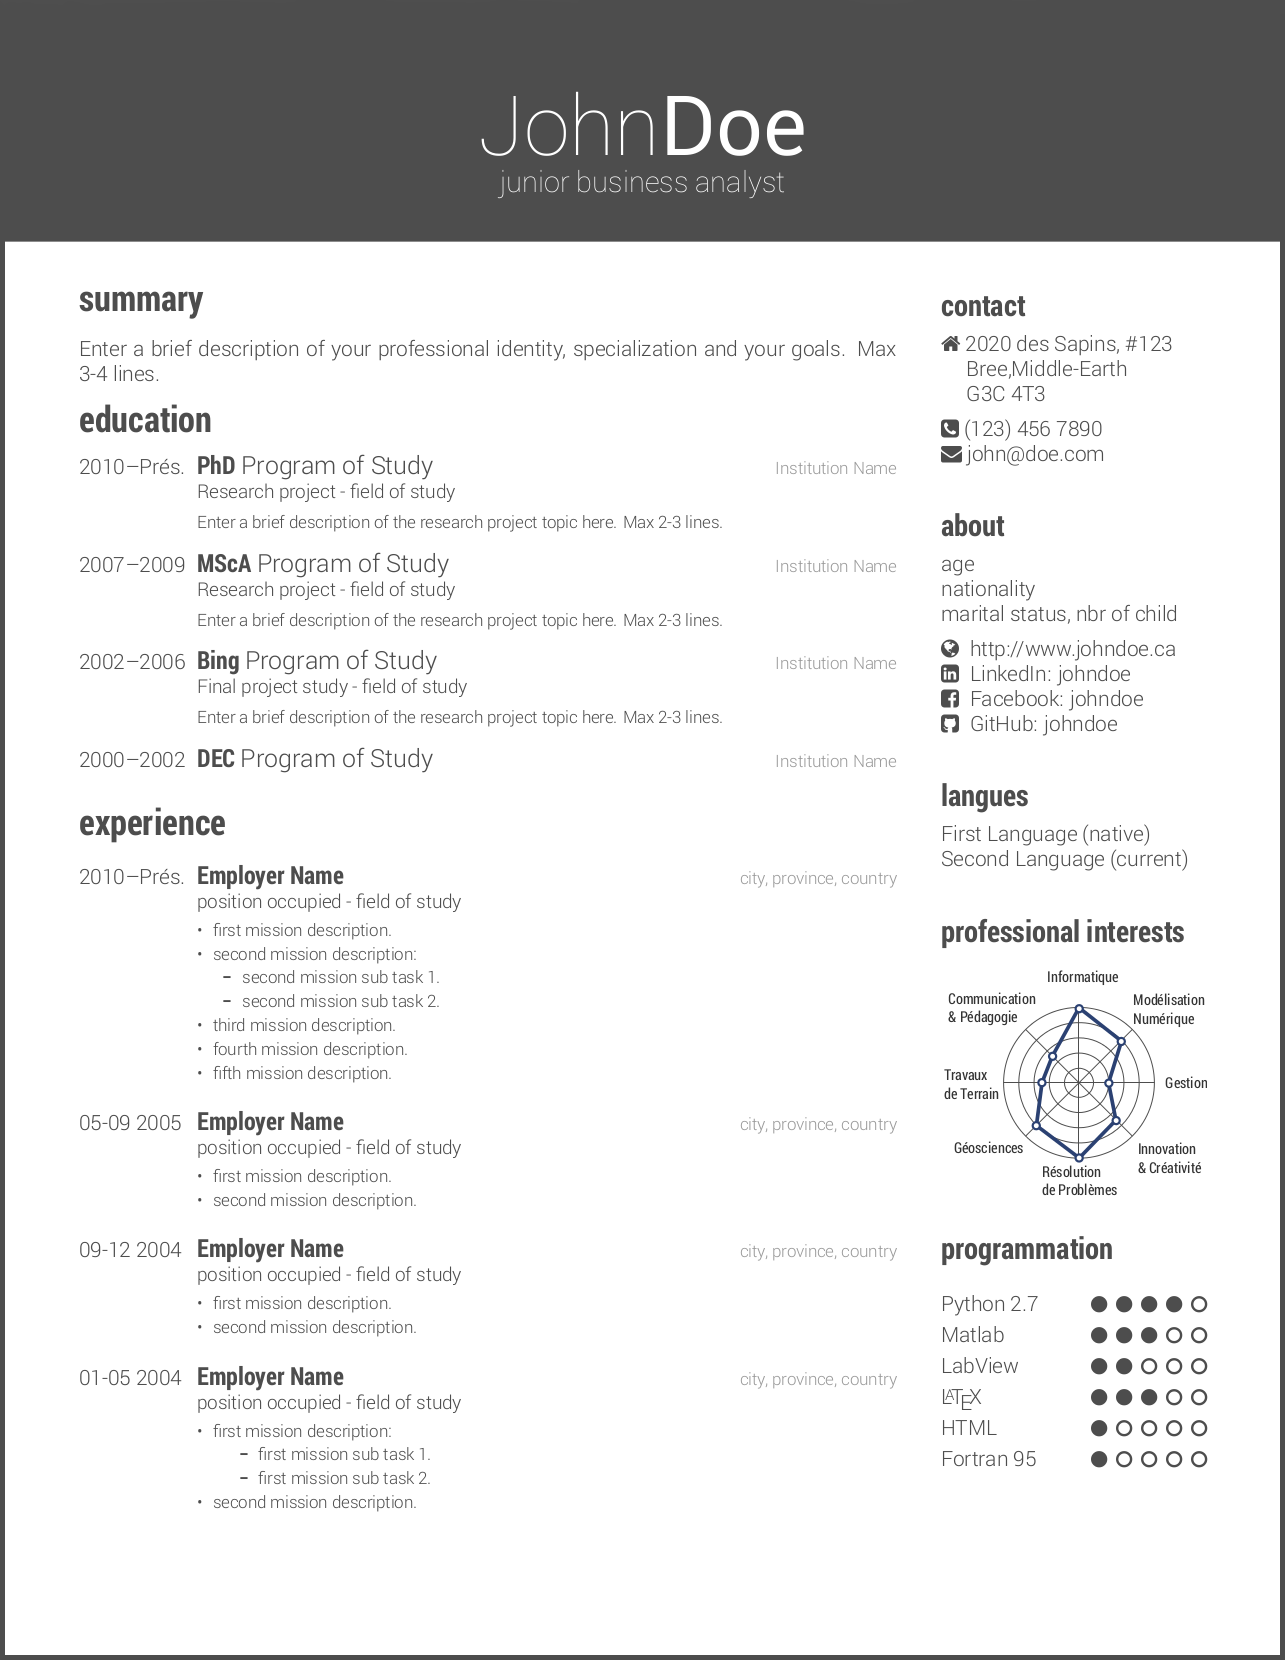
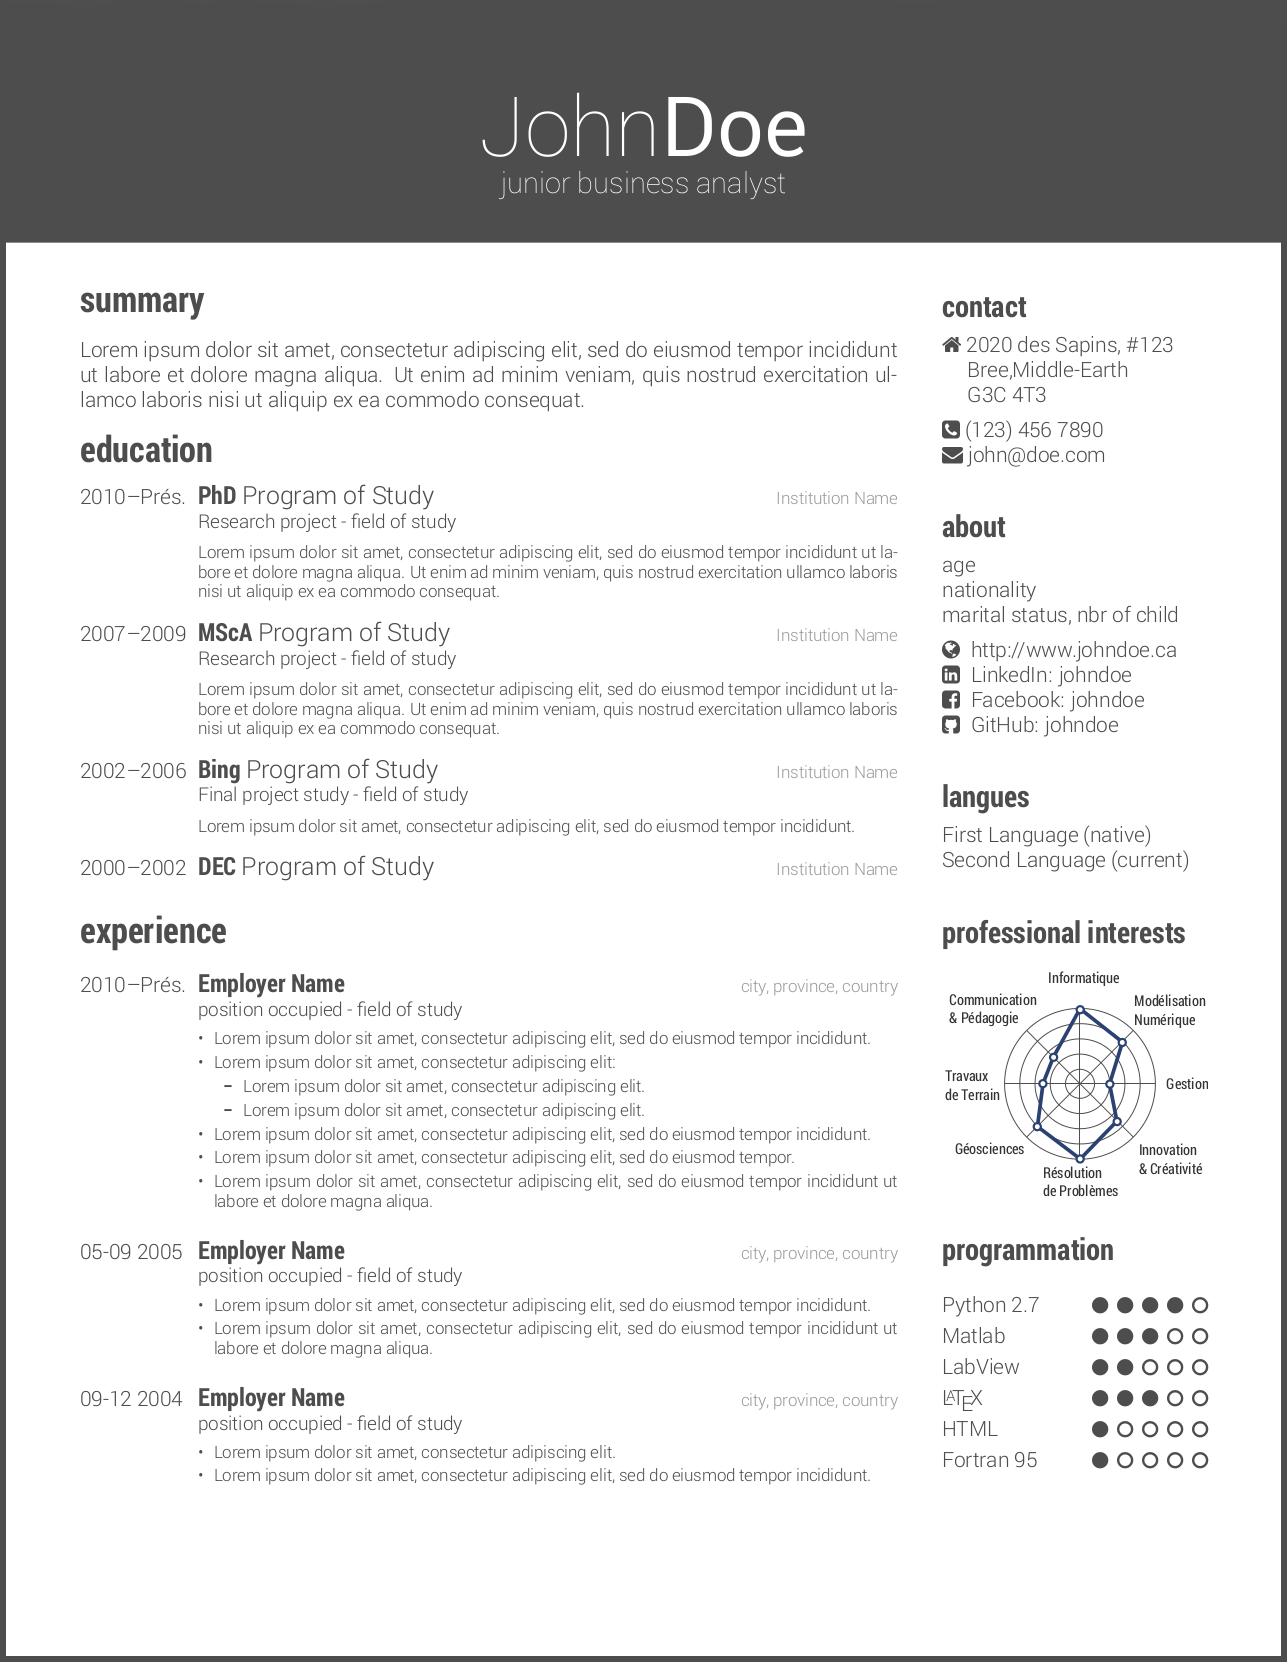
Modification to the filler text to better show the design of the document.

diff --git a/cv.tex b/cv.tex
@@ -89,7 +89,7 @@
 
 \section{summary}
 %
-\normalfont{Enter a brief description of your professional identity, specialization and your goals. Max 3-4 lines.}
+\normalfont{Lorem ipsum dolor sit amet, consectetur adipiscing elit, sed do eiusmod tempor incididunt ut labore et dolore magna aliqua. Ut enim ad minim veniam, quis nostrud exercitation ullamco laboris nisi ut aliquip ex ea commodo consequat.}
 
 %-----------------------------------------------
 %	EDUCATION SECTION
@@ -104,21 +104,21 @@
 {PhD {\normalfont Program of Study}}
 {Institution Name}
 {Research project - field of study}
-{Enter a brief description of the research project topic here. Max 2-3 lines.}
+{Lorem ipsum dolor sit amet, consectetur adipiscing elit, sed do eiusmod tempor incididunt ut labore et dolore magna aliqua. Ut enim ad minim veniam, quis nostrud exercitation ullamco laboris nisi ut aliquip ex ea commodo consequat.}
 %------------------------------------------------
 \entryMod
 {2007--2009}
 {MScA {\normalfont Program of Study}}
 {Institution Name}
 {Research project - field of study}
-{Enter a brief description of the research project topic here. Max 2-3 lines.}
+{Lorem ipsum dolor sit amet, consectetur adipiscing elit, sed do eiusmod tempor incididunt ut labore et dolore magna aliqua. Ut enim ad minim veniam, quis nostrud exercitation ullamco laboris nisi ut aliquip ex ea commodo consequat.}
 %------------------------------------------------
 \entryMod
 {2002--2006}
 {Bing {\normalfont Program of Study}}
 {Institution Name}
 {Final project study - field of study}
-{Enter a brief description of the research project topic here. Max 2-3 lines.}
+{Lorem ipsum dolor sit amet, consectetur adipiscing elit, sed do eiusmod tempor incididunt.}
 %------------------------------------------------
 \entryAlt
 {2000--2002}
@@ -143,15 +143,15 @@
     {
      \begin{itemize}[leftmargin=*]
        \setlength\itemsep{0pt}
-       \item first mission description.                     
-       \item second mission description:
+       \item Lorem ipsum dolor sit amet, consectetur adipiscing elit, sed do eiusmod tempor incididunt.                     
+       \item Lorem ipsum dolor sit amet, consectetur adipiscing elit:
          \begin{itemize}[leftmargin=0.5cm]
-           \item second mission sub task 1.
-           \item second mission sub task 2.
+           \item Lorem ipsum dolor sit amet, consectetur adipiscing elit.
+           \item Lorem ipsum dolor sit amet, consectetur adipiscing elit.
          \end{itemize}
-       \item third mission description.
-       \item fourth mission description.
-       \item fifth mission description.
+       \item Lorem ipsum dolor sit amet, consectetur adipiscing elit, sed do eiusmod tempor incididunt.
+       \item Lorem ipsum dolor sit amet, consectetur adipiscing elit, sed do eiusmod tempor.
+       \item Lorem ipsum dolor sit amet, consectetur adipiscing elit, sed do eiusmod tempor incididunt ut labore et dolore magna aliqua.
      \end{itemize}
      }
 \end{entrylist}
@@ -165,8 +165,8 @@
     {
      \begin{itemize}[leftmargin=*]
        \setlength\itemsep{0pt}
-       \item first mission description.
-       \item second mission description.
+       \item Lorem ipsum dolor sit amet, consectetur adipiscing elit, sed do eiusmod tempor incididunt.
+       \item Lorem ipsum dolor sit amet, consectetur adipiscing elit, sed do eiusmod tempor incididunt ut labore et dolore magna aliqua.
      \end{itemize}
      }
 \end{entrylist}
@@ -180,27 +180,8 @@
     {
      \begin{itemize}[leftmargin=*]
        \setlength\itemsep{0pt}
-       \item first mission description.
-       \item second mission description.
-     \end{itemize}
-     }
-\end{entrylist}
-%------------------------------------------------
-\begin{entrylist}
-  \entryBul
-    {01-05 2004}
-    {Employer Name}
-    {city, province, country}
-    {position occupied - field of study}
-    {
-     \begin{itemize}[leftmargin=*]
-       \setlength\itemsep{0pt}       
-       \item first mission description:
-         \begin{itemize}
-           \item first mission sub task 1.
-           \item first mission sub task 2.
-         \end{itemize}
-       \item second mission description.
+       \item Lorem ipsum dolor sit amet, consectetur adipiscing elit.
+       \item Lorem ipsum dolor sit amet, consectetur adipiscing elit, sed do eiusmod tempor incididunt.
      \end{itemize}
      }
 \end{entrylist}
@@ -208,7 +189,7 @@
 %-----------------------------------------------
 %	CERTIFICATION SECTION
 %-----------------------------------------------
-
+\newpage
 \section{certifications}
   \begin{entrylist}
     \entryFULL
@@ -227,27 +208,6 @@
 \end{entrylist}
 
 %-----------------------------------------------
-%	OTHER SECTION
-%-----------------------------------------------
-%
-%\section{formations autres}
-%  \begin{entrylist}
-%    \entryMod
-%      {2014}
-%      {Microseismic Imaging of Hydraulic Fracturing: Improved Engineering of Unconventional Shale Reservoirs (7 heures)}
-%      {}
-%      {Shawn Maxwell, IMaGE: Itasca Microseismic and Geomechanical Evaluation\\2014 Distinguished Instructor Short Course, INRS-ETE, Québec, Qc}
-%      {}
-%------------------------------------------------
-%    \entryMod
-%      {2014}
-%      {Indroduction to Geothermal (6 heures)}
-%      {}
-%      {Lena Patsa, University of British Columbia\\Formation Divex, INRS-ETE, Québec, Qc}
-%      {}
-%\end{entrylist}
-
-%-----------------------------------------------
 %	COMMUNICATION SKILLS SECTION
 %-----------------------------------------------
 
@@ -259,13 +219,13 @@
 %------------------------------------------------
 \entry
 {in prep.}
-{Publication Title.}
+{Lorem ipsum dolor sit amet, consectetur adipiscing elit, sed do eiusmod tempor incididunt.}
 {}
 {author name, author name, author name et author name\\\emph{Journal Title and Info}}
 %------------------------------------------------
 \entry
 {AOÛ 2010}
-{Publication Title.}
+{Lorem ipsum dolor sit amet, consectetur adipiscing elit, sed do eiusmod tempor incididunt.}
 {}
 {author name, author name, author name et author name\\\emph{Journal Title and Info}}
 %------------------------------------------------
@@ -275,33 +235,16 @@
 %------------------------------------------------
 \entry
 {MAI 2015}
-{Publication Title.}
+{Lorem ipsum dolor sit amet, consectetur adipiscing elit, sed do eiusmod tempor incididunt.}
 {}
 {author name, author name, author name et author name\\\emph{Presentation Type (Language), Conference Title, Location, City}}
 %------------------------------------------------
 \entry
 {MAI 2014}
-{Publication Title.}
+{Lorem ipsum dolor sit amet, consectetur adipiscing elit, sed do eiusmod tempor incididunt.}
 {}
 {author name, author name, author name et author name\\\emph{Presentation Type (Language), Conference Title, Location, City}}
 %------------------------------------------------
-\entry
-{SEP 2013}
-{Publication Title.}
-{}
-{author name, author name, author name et author name\\\emph{Presentation Type (Language), Conference Title, Location, City}}
-%------------------------------------------------
-\entry
-{SEP 2012}
-{Publication Title.}
-{}
-{author name, author name, author name et author name\\\emph{Presentation Type (Language), Conference Title, Location, City}}
-%------------------------------------------------
-\entry
-{AOÛ 2011}
-{Publication Title.}
-{}
-{author name, author name, author name et author name\\\emph{Presentation Type (Language), Conference Title, Location, City}}
 \end{entrylist}
 
 %-----------------------------------------------
